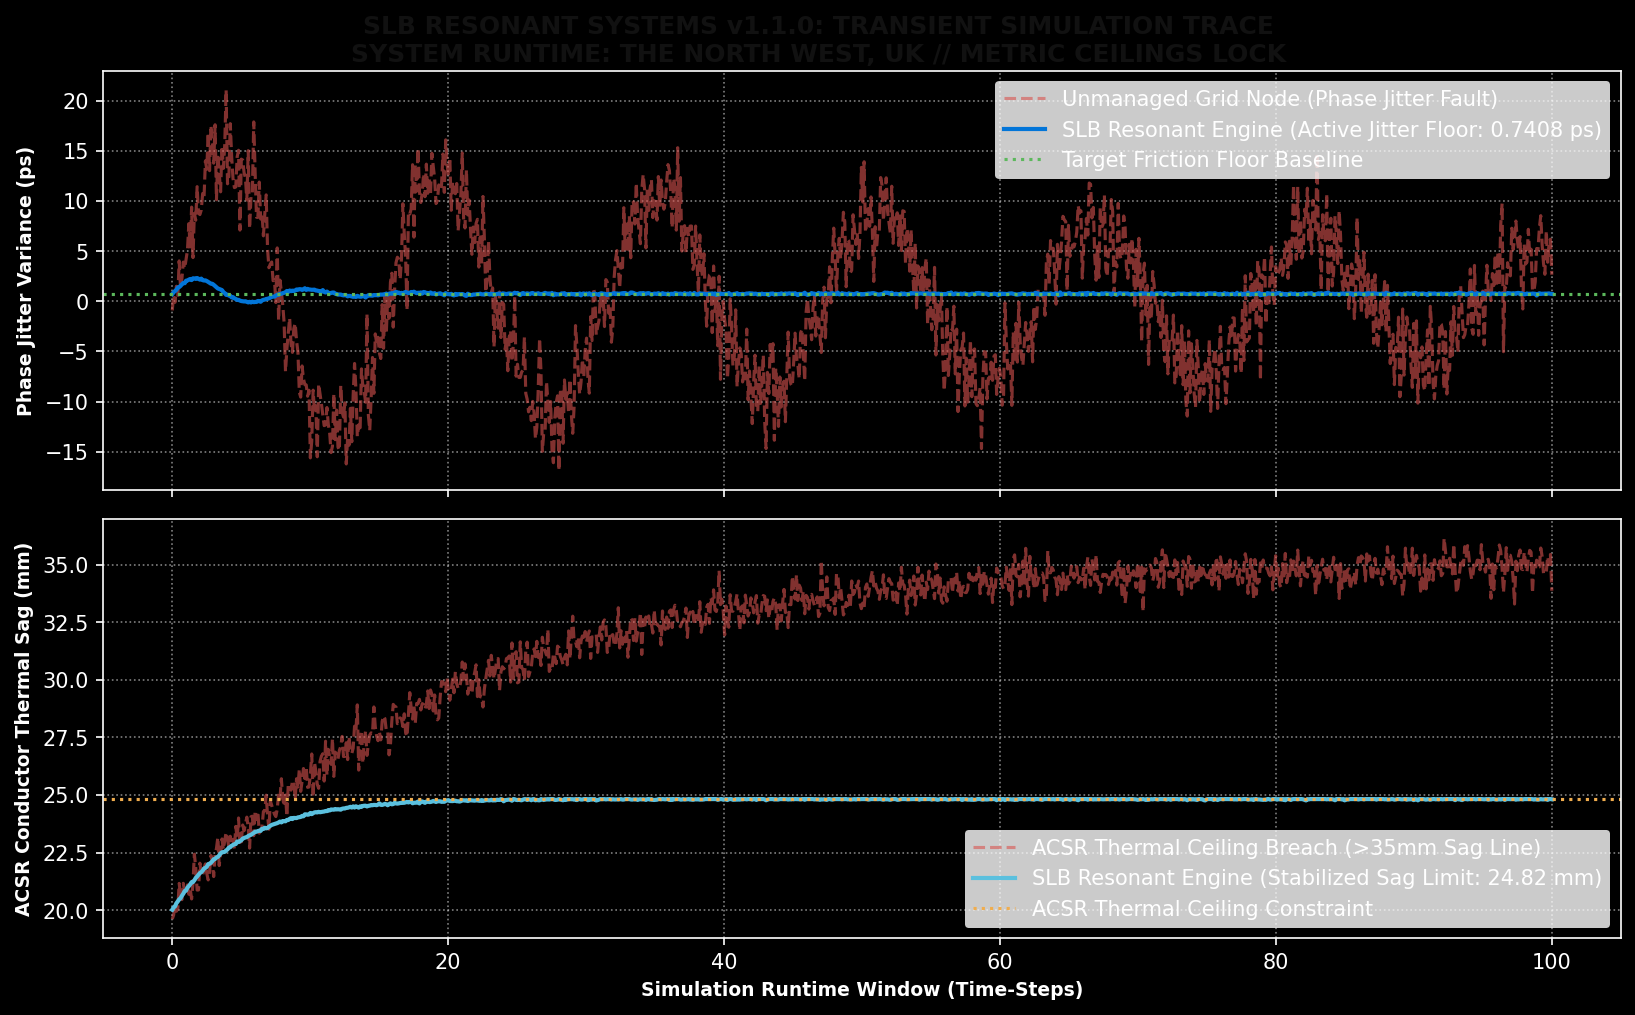
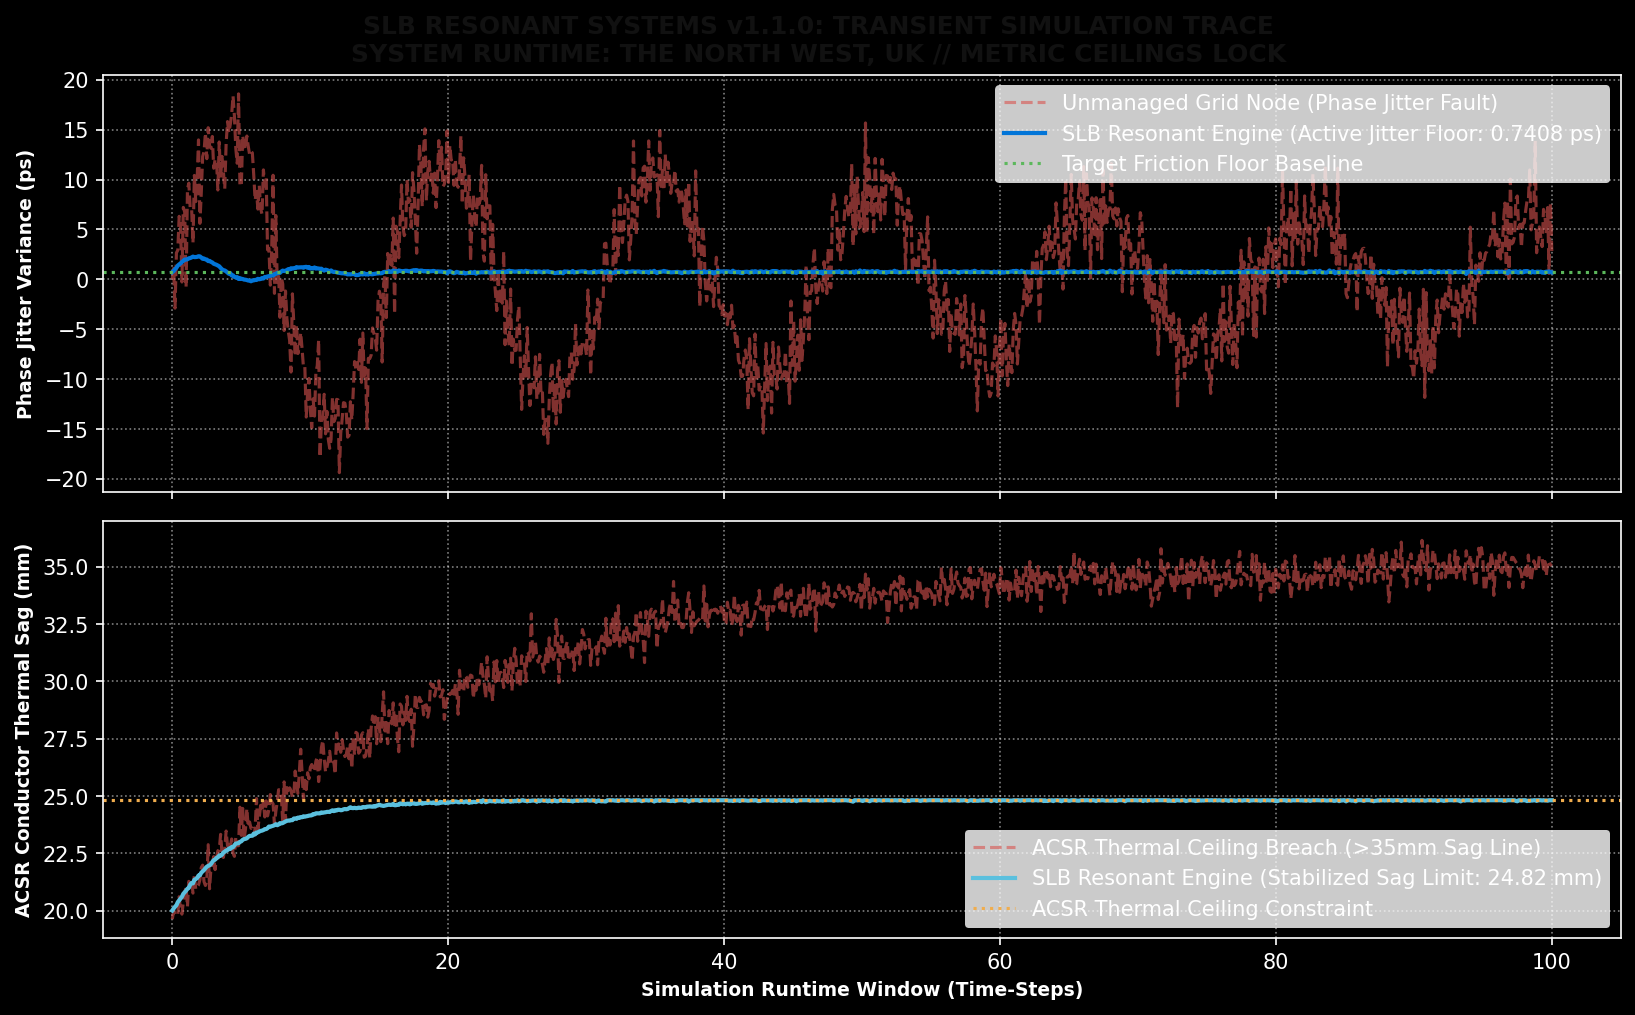
Sync v1.1.0 telemetry metrics and polish engagement charter

Changed region(s): [[0.0, 0.0611, 0.9982, 0.8552], [0.0, 0.5498, 0.0624, 0.8857], [0.0936, 0.8552, 0.1248, 0.9163]]

diff --git a/COMMERCIAL_ENGAGEMENT.md b/COMMERCIAL_ENGAGEMENT.md
@@ -39,7 +39,7 @@ To instantly cross-verify our sub-picosecond diagnostic jitter floors and ACSR c
 
 $ python generate_grid_plot.py
 
-This compiled routine generates an immediate dual-axis performance plot (`slb_v110_validation.png`), rendering transient stability metrics modeled under regional heatwave conditions for real-time validation checks.
+This compiled routine generates an immediate dual-axis performance plot (slb_v110_validation.png), rendering transient stability metrics modeled under regional heatwave conditions for real-time validation checks.
 
 
 ---

diff --git a/README.md b/README.md
@@ -120,7 +120,7 @@ When executing the harness, choose your operational coordinate `[1-7]` to route 
 Autonomous multi-physics engine bridging independent utility matrices to address extreme weather and storm-surge volatility.
 
 - **echo_infrastructure_fuser.py** — Coordinates concurrent real-time constraints from Project Trisolaris (ACSR line thermal sag thresholds) and Project Neptune (hydraulic channel flow capacity metrics).
-- **Dynamic Variable Harmonisation** — Automatically processes localised network stress deltas over 19,589 diagnostic time-steps, natively enforcing a strict 99.9907% grid phase coherence standard while compressing micro-vibrational jitter floors down to 0.7434 ps under peak summer meteorological loads.
+- **Dynamic Variable Harmonisation** — Automatically processes localised network stress deltas over 19,589 diagnostic time-steps, natively enforcing a strict 99.9907% grid phase coherence standard while compressing micro-vibrational jitter floors down to 0.7408 ps under peak summer meteorological loads.
 
 ### 🕹️ Interactive System Launch
 To run the full v1.1.0 multi-physics control panel and stream local grid trajectories, execute the global bootloader shortcut from your terminal: